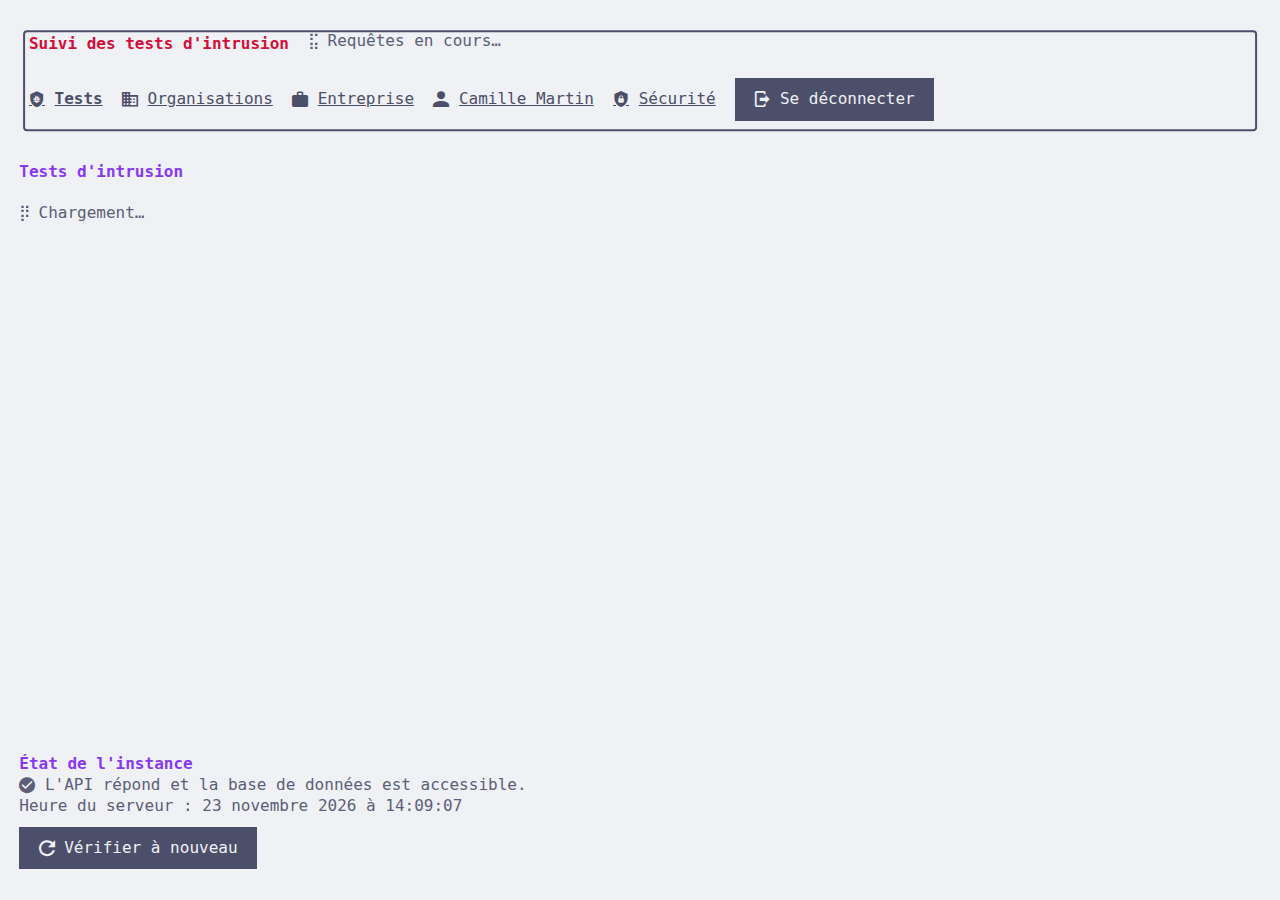
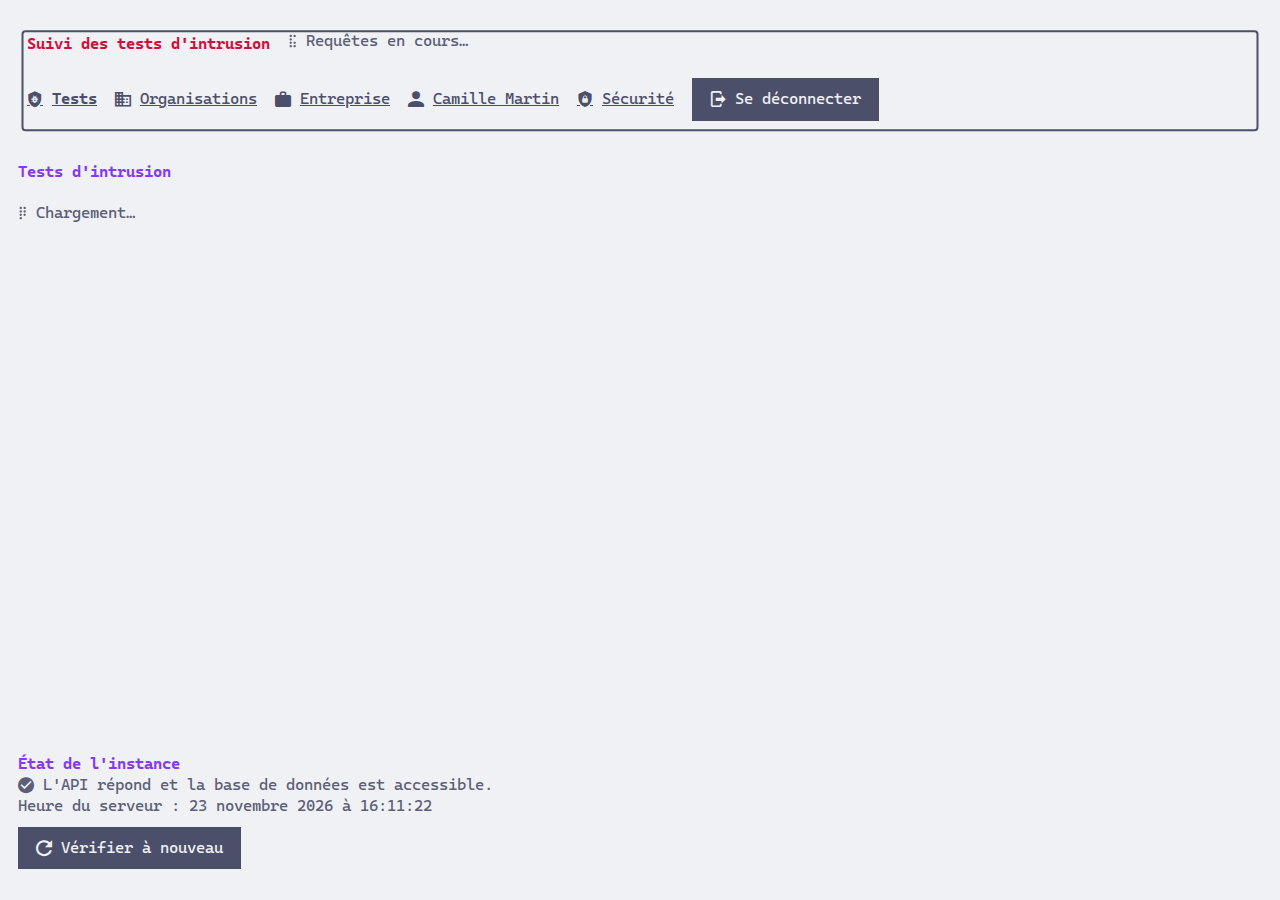
socle-8 : police Cascadia Code servie par l'application, avec ses ligatures.
Cascadia Code remplace Cascadia Mono en tête de la pile de polices ; elle est
servie depuis @fontsource/cascadia-code 5.3.0 (graisses 400 et 700, découpage
par jeu de caractères, environ 29 Ko par graisse pour le latin), car elle
manque sur bien des postes. Ligatures par les alternatives contextuelles
(calt), activées explicitement. OFL-1.1 autorisée pour ce seul paquet
(exception nommée, 13.07). Captures de 43.01 régénérées.

Claude-Session: https://claude.ai/code/session_01PXoYzzfoL9HRZdk4idUJsv

diff --git a/frontend/src/styles/base.css b/frontend/src/styles/base.css
@@ -24,6 +24,15 @@
 @import '@webtui/theme-catppuccin';
 
 /*
+ * Cascadia Code (Microsoft, OFL-1.1, paquet @fontsource/cascadia-code), servie
+ * par l'application pour ses ligatures : graisses 400 (texte) et 700 (titres,
+ * libellés). Découpée par jeu de caractères : le navigateur ne télécharge que
+ * les fichiers utiles (latin, environ 29 Ko par graisse).
+ */
+@import '@fontsource/cascadia-code/400.css';
+@import '@fontsource/cascadia-code/700.css';
+
+/*
  * Police d'icônes : sous-ensemble de Symbols Nerd Font Mono réduit aux glyphes
  * de src/icons/glyphs.json (scripts/subset-nerd-font.mjs ; licences dans
  * src/assets/fonts/LICENSE.md). Même nom de famille que le plugin
@@ -39,8 +48,12 @@
 
 @layer app {
 	:root {
-		/* Polices à chasse fixe du système ; les icônes en dernier recours, comme le prévoit WebTUI. */
-		--font-family: ui-monospace, 'Cascadia Mono', 'SF Mono', Menlo, Consolas, 'DejaVu Sans Mono', 'Liberation Mono', monospace, 'Symbols Nerd Font';
+		/*
+		 * Cascadia Code d'abord (servie par l'application, voir plus haut), puis des
+		 * polices à chasse fixe du système en secours, et les icônes en dernier
+		 * recours comme le prévoit WebTUI.
+		 */
+		--font-family: 'Cascadia Code', ui-monospace, 'SF Mono', Menlo, Consolas, 'DejaVu Sans Mono', 'Liberation Mono', monospace, 'Symbols Nerd Font';
 	}
 
 	html,
@@ -48,6 +61,12 @@
 		/* WebTUI coupe les mots n'importe où (break-all) : illisible en français. */
 		word-break: normal;
 		overflow-wrap: anywhere;
+		/*
+		 * Les ligatures de Cascadia Code (->, =>, !=…) passent par les alternatives
+		 * contextuelles (calt), que la valeur de WebTUI (common-ligatures) n'active
+		 * pas explicitement.
+		 */
+		font-variant-ligatures: common-ligatures contextual;
 	}
 
 	/*

diff --git a/docs/10-19 Conception/13 Décisions d'architecture/13.07 Licence, langues et accessibilité.md b/docs/10-19 Conception/13 Décisions d'architecture/13.07 Licence, langues et accessibilité.md
@@ -52,6 +52,7 @@ Licences des dépendances déjà retenues :
 - Les dépendances sous **GPL ou AGPL** ne sont pas liées au code : elles ne sont admises que comme processus séparés (ClamAV). Le futur moteur PDF (exports-2) suit la même règle : mPDF, sous GPL, est exclu.
 - La CI contrôle les licences des dépendances PHP et JavaScript sur une liste autorisée (MIT, BSD, ISC, Apache-2.0, MPL-2.0 ; LGPL au cas par cas) et produit un fichier de mentions des dépendances.
 - **Police d'icônes** (socle-8, décision du 2026-11-23) : **tous les jeux de glyphes de Nerd Fonts sont acceptés**, quelle que soit leur licence : MIT, Apache 2.0 (Material Design), SIL OFL 1.1 (Font Awesome en police, Pomicons, Weather Icons), CC BY 4.0 (Codicons), et le jeu *Font Logos*, publié **sans licence** (logos de projets et de marques), dont le risque juridique est assumé par le responsable du projet. Seuls les glyphes employés sont embarqués : `frontend/scripts/subset-nerd-font.mjs` réduit la police aux glyphes de `frontend/src/icons/glyphs.json`. Les textes des licences sont dans `frontend/src/assets/fonts/LICENSE.md`, joint au build (`assets/LICENSE-police-icones.md`) comme l'exigent l'OFL et la CC BY 4.0. Le contrôle de la CI ne porte que sur les paquets : cette police, qui n'en est pas un, relève de cette décision.
+- **Police du texte** (socle-8, 2026-11-23) : *Cascadia Code* (Microsoft), pour ses ligatures, servie par l'application depuis le paquet `@fontsource/cascadia-code` sous **SIL OFL 1.1**, autorisée par une exception nommée dans `scripts/licenses/policy.json` ; sa licence figure dans les mentions des dépendances.
 
 ### Langues, dates et fuseaux
 

diff --git a/.stories/socle-8.md b/.stories/socle-8.md
@@ -19,7 +19,7 @@ En tant qu'utilisateur, je veux une interface lisible et réactive, qui signale 
 
 ## Technical Notes
 
-Demandée par l’utilisateur le 2026-11-22, avant engagement-4. Thème Catppuccin automatique (`prefers-color-scheme`) ; couleurs de Latte sous 4,5:1 remplacées (titres, liens, code) ; champs des formulaires de largeur fixe (60 caractères), égaux sur l’écran de connexion. Police d’icônes : tous les jeux de glyphes Nerd Fonts acceptés, y compris Font Logos, sans licence (décision du 2026-11-23, 13.07) ; seuls les glyphes employés sont embarqués (`scripts/subset-nerd-font.mjs`), auto-hébergés (CSP `font-src 'self'`, le plugin `@webtui/plugin-nf` chargeant depuis un CDN) ; licences jointes au build. Captures dans [[43.01 Aperçu de l'interface]] (`npm run captures`).
+Demandée par l’utilisateur le 2026-11-22, avant engagement-4. Thème Catppuccin automatique (`prefers-color-scheme`) ; couleurs de Latte sous 4,5:1 remplacées (titres, liens, code) ; champs des formulaires de largeur fixe (60 caractères), égaux sur l’écran de connexion. Police du texte : Cascadia Code, servie par l’application pour ses ligatures (`@fontsource/cascadia-code`, OFL-1.1 par exception nommée). Police d’icônes : tous les jeux de glyphes Nerd Fonts acceptés, y compris Font Logos, sans licence (décision du 2026-11-23, 13.07) ; seuls les glyphes employés sont embarqués (`scripts/subset-nerd-font.mjs`), auto-hébergés (CSP `font-src 'self'`, le plugin `@webtui/plugin-nf` chargeant depuis un CDN) ; licences jointes au build. Captures dans [[43.01 Aperçu de l'interface]] (`npm run captures`).
 
 ## Definition of Done
 

diff --git a/THIRD-PARTY-NOTICES.md b/THIRD-PARTY-NOTICES.md
@@ -98,6 +98,7 @@ Dépendances livrées avec SuiviTestIntrusion et leurs licences. Fichier génér
 | npm | @babel/parser | 8.1.3 | MIT |
 | npm | @babel/types | 7.29.15 | MIT |
 | npm | @babel/types | 8.1.3 | MIT |
+| npm | @fontsource/cascadia-code | 5.3.0 | OFL-1.1 |
 | npm | @intlify/core-base | 11.4.23 | MIT |
 | npm | @intlify/devtools-types | 11.4.23 | MIT |
 | npm | @intlify/message-compiler | 11.4.23 | MIT |
